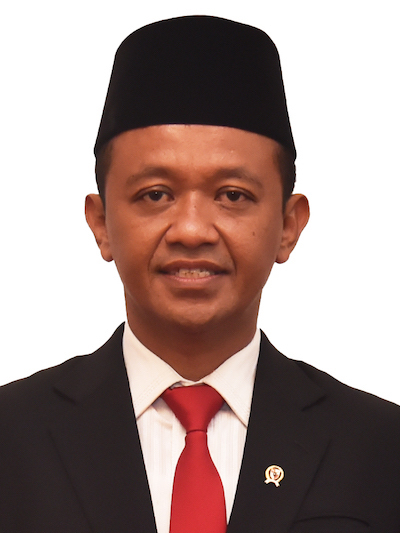
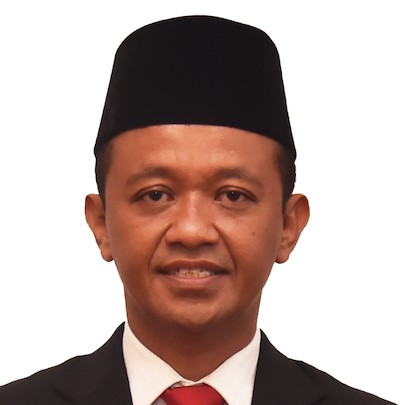
new image refrence

diff --git a/script.js b/script.js
@@ -49,7 +49,8 @@ async function loadTargetFace() {
         const referenceImages = [
             'bahlil.jpg',
             'bahlil1.jpg',
-            'bahlil2.jpg'
+            'bahlil2.jpg',
+            'bahlil3.jpg'
         ];
         
         const descriptors = [];
